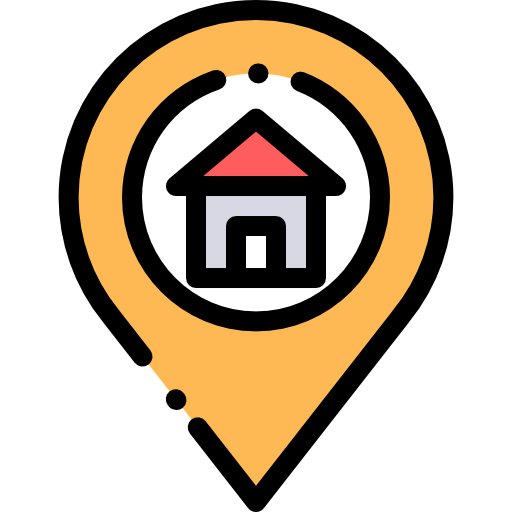
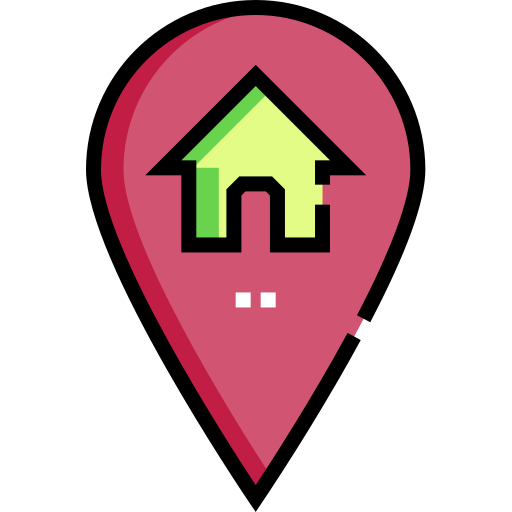
middle commit

diff --git a/src/boxes/common/board/map/FindByMap.js b/src/boxes/common/board/map/FindByMap.js
@@ -1,4 +1,4 @@
-import React, { useEffect, useState, useCallback} from 'react';
+import React, {useEffect, useState, useCallback, useRef} from 'react';
 import ReviewModal from '../../../../items/ReviewModal'
 import 'react-google-maps'
 import {
@@ -10,12 +10,23 @@ import side from './side.jpg'
 import Geocode from 'react-geocode'
 
 import './map.css'
-import {  Star, StoreReport} from "./Modals";
-import {useDispatch} from "react-redux";
-import {normal,cafe, home, red, review, addr, phoneB, storeIcon, favStar, hotelIcon, hospIcon} from './mapIcons/imgIndex'
+import {  Star} from "./Modals";
+import {
+    homeIcon,
+    red,
+    review,
+    addr,
+    phoneB,
+    favStar,
+    hospIcon,
+    chinaIcon,
+    conviStore,
+    drug,
+    cafe, hotelIcon, soju, bab, normal
+} from './mapIcons/imgIndex'
 import {Button, Col, Container, Modal, Row} from "react-bootstrap";
 import {Link} from "react-router-dom";
-import {storeList,storeThunk} from "./mapThunks";
+import axios from "axios";
 
 Geocode.setApiKey("AIzaSyBCjj2hELnBZqNrfMSwlka2ezNRrysnlNY");
 
@@ -29,46 +40,115 @@ const FindByMap=()=> {
             height: '600px'
         };
 
-        const [map, setMap] = useState(null)
+        const [map, setMap] = useState(null);
+        const [userAddr, setUserAddr] = useState("");
         const onUnmount = useCallback(function callback(map) {
         setMap(null)
-    }, [])
-    const [center,setCenter]=useState({lat: 37.746897, lng: 127.040861})
-    const onLoad = React.useCallback(function callback(map) {
-        setMap(map)
-    }, [])
+        }, [])
+        const [center,setCenter]=useState({lat: 37.746897, lng: 127.040861});
         const [modalShow, setModalShow] = useState(false);
-        const [loca, setLoca]=useState(false);
-        let [homePosit,setHomePosit]=useState({})
-        const [storeInfo,setStoreInfo]=useState({})
-        const myLoca='서울시 중랑구 ㅇㅇㅇ 거구장';
-        const [selectedAddr, setSelectedAddr] = useState('')
-        const [infoShow, setInfoShow] =useState(false)
-        const dispatch=useDispatch()
+        let [homePosit,setHomePosit]=useState({});
+        const [storeInfo,setStoreInfo]=useState({});
+        const myLoca = JSON.parse(sessionStorage.getItem("accountDetail")).defaultAddr;
+        const [userLatLng,setUserLatLng]=useState({lat:0, lng:0});
+        const [infoShow, setInfoShow] =useState(false);
+        const [storeList, setStoreList] =useState([]);
+
         const showHome=e=>{
             e.preventDefault()
-            setLoca(true);}
-        const [selected, setSelected] = useState({lat: 0, lng: 0});
-        Geocode.fromLatLng(selected.lat, selected.lng).then(
-            response => {
-                const address = response.results[0].formatted_address;
-                setSelectedAddr(address);
-                console.log(address);
-            },
-            error => {
-                console.error(error);
-            },
-        );
+            setCenter(homePosit);}
+        const mapRef = useRef();
+        const panTo = useCallback(({lat, lng}) => {
+            //<Search panTo <- 여기로
+            mapRef.current.panTo({lat, lng});
+            mapRef.current.setZoom(16);
+        }, []);
+        const onMapLoad = React.useCallback(map => {
+            mapRef.current = map;
+        }, []);
+        const getLatLng = () =>{
+            Geocode.fromAddress(myLoca).then(
+                response => {
+                    const resLatLng = response.results[0].geometry.location;
+                    setUserLatLng({lat:resLatLng.lat, lng:resLatLng.lng})
+                    console.log(resLatLng);
+                },
+                error => {
+                    console.error(error);
+                }
+            );
+        }
+
+
         useEffect(()=>{
             console.log("in useEffect")
             if(!storeList[0]) {
-                dispatch(storeThunk(sessionStorage.getItem("location")));
-            console.log("useEffect")}
-            if(sessionStorage.getItem("location").defaultAddr ==="경기도 파주시"){
-                setHomePosit({lat: 37.746897, lng: 127.040861});
-            }
+                axios.get(`http://localhost:8080/stores/mapClick/의정부`)
+                    .then(({data})=>{
+                        let temList =[]
+                        data.list.forEach(elem=>{
+                            switch (elem.storeType) {
+                                case "의원": elem.icon = hospIcon; temList.push(elem); return;
+                                case "중국식": elem.icon =chinaIcon; temList.push(elem); return;
+                                case "편의점": elem.icon = conviStore; temList.push(elem);return;
+                                case "약국": elem.icon = drug; temList.push(elem); return;
+                                case "기타음료식품": elem.icon=cafe; temList.push(elem); return;
+                                case "숙박업": elem.icon = hotelIcon; temList.push(elem); return;
+                                case "주점": elem.icon = soju; temList.push(elem); return;
+                                case "일반한식": elem.icon = bab; temList.push(elem); return;
+                                default:elem.icon = normal; temList.push(elem); return;
+                            }
+                        });
+                        setStoreList(temList);
+                    })
+                    .catch(err=>{throw(err)});
+           }
+
 
         },[storeList],);
+        useEffect(()=>{
+                setHomePosit({lat: 37.746897, lng: 127.040861});
+
+        },[setHomePosit])
+        useEffect(()=>{
+            setUserAddr(JSON.parse(sessionStorage.getItem("accountDetail")).defaultAddr);
+        },[userAddr])
+        useEffect(()=>{
+            getLatLng()
+        },[])
+    const StoreReport=(props)=> {
+        const [checkShow,setCheckShow]=useState(false);
+        useEffect(()=>{
+            console.log(props.storeInfo.storeName)
+        },[props])
+        const Check =(props)=>{
+            return<>
+                <Modal
+                    scaleSize={"sm"}/>
+            </>
+        }
+        return (
+            <div>
+
+                <Modal {...props}>
+                    <Modal.Header closeButton>
+                        <Modal.Title>가맹점 신고하기</Modal.Title>
+                    </Modal.Header>
+                    <Modal.Body style={{"text-align":"center"}}>
+                        <img src={"https://i.pinimg.com/474x/57/62/24/5762245c37514d61a333d1d5d1434670.jpg"} width={40} height={40}
+                        /><br/>
+                        &nbsp; <h4>{storeInfo.storeName}</h4>&nbsp;에서 지역화폐를 받지 않습니까?
+                    </Modal.Body>
+                    <Modal.Footer>
+                        <Button variant="secondary" onClick={props.onHide}>취소</Button>
+                        <Button variant="danger" onClick={props.onHide} >신고하기</Button>
+                    </Modal.Footer>
+                </Modal>
+                <Check show={checkShow}/>
+            </div>
+
+        );
+    };
 
     const MapModal=(props)=> {
         const [reportShow, setReportShow]=useState(false);
@@ -146,7 +226,7 @@ const FindByMap=()=> {
                         <Button onClick={props.onHide}>Close</Button>
                     </Modal.Footer>
                 </Modal>
-                <StoreReport storeInfo show={reportShow} onHide={()=>setReportShow(false)}/>
+                <StoreReport setReportShow storeInfo show={reportShow} onHide={()=>setReportShow(false)}/>
                 <ReviewModal show={reviewShow} handleClose={()=>setReviewShow(false)}
                 storeName={storeInfo.storeName}
                 accountDetail={JSON.stringify(sessionStorage.getItem("accountDetail"))}
@@ -170,11 +250,21 @@ const FindByMap=()=> {
                 <table className="findmap">
                     <tr><td>
                         {sessionStorage.getItem("accountDetail")&&<>
-                            <img src={home} alt={"집"} onClick={(e)=>showHome(e)}
-                                 style={{width:50, height:50, cursor:'pointer'}}/>
+                            <img src={homeIcon} alt={"집"} onClick={e => {
+                                e.preventDefault();
+                                navigator.geolocation.getCurrentPosition(
+                                    position => {
+                                        panTo({
+                                            lat: position.coords.latitude,
+                                            lng: position.coords.longitude,
+                                        });
+                                    },
+                                    () => null,
+                                );
+                            }} style={{width:50, height:50, cursor:'pointer'}}/>
                             <h6>내 위치</h6></>}
                     </td>
-                        <td>{loca&&<h6>{myLoca}</h6>}</td>
+                        <td><h6>{myLoca}</h6></td>
                         <td></td>
                     </tr>
                     <tr><td colSpan={2} className="td-left">
@@ -186,7 +276,7 @@ const FindByMap=()=> {
                             center={center}
                             onUnmount={onUnmount}
                             zoom={16}
-                            onLoad={onLoad}
+                            onLoad={onMapLoad}
 
                         >
 
@@ -212,18 +302,19 @@ const FindByMap=()=> {
                                 clickable={true}
                                 onCloseClick={() => setInfoShow(false)}
                             ><h2>인포창</h2></InfoWindow>}
+                            {sessionStorage.getItem("accountDetail")&&
                             <Marker
-                                position={{lat: 37.746897, lng: 127.040861}}
-                                icon={{url: home,
+                                position={homePosit}
+                                icon={{url: homeIcon,
                                     scaledSize: {width:40, height:40},
                                 }}
                                 title={'집'}
                                 animation={2}
                             >
                                 <InfoWindow>
-                                    <h1>일단인포</h1>
+                                    <h6>우리집</h6>
                                 </InfoWindow>
-                            </Marker>
+                            </Marker>}
                         </GoogleMap>
                         </LoadScript>
 

diff --git a/src/boxes/common/board/map/MerchantList.js b/src/boxes/common/board/map/MerchantList.js
@@ -3,28 +3,7 @@ import {Table, Pagination} from 'react-bootstrap';
 import {Link} from "react-router-dom"
 import axios from 'axios'
 import { useDispatch} from "react-redux";
-import {StoreReport} from "./Modals";
 import './search.jpg'
-import {storeThunk,storeList} from "./mapThunks";
-
-
-const GET_STORE_REQUEST = 'GET_STORE_REQUEST';
-
-
-export const storeListAction=data=>({type: GET_STORE_REQUEST, payload:data});
-export const storeListReducer = (state=[], action)=>{
-    switch (action.type) {
-        case GET_STORE_REQUEST :return action.payload;
-        default: return state;
-
-    }
-}
-export const storeListThunk = searchWord => dispatch => {
-    console.log("storeListThunk")
-    axios.get(`http://localhost:8080/stores/${searchWord}`)
-        .then(res=>{dispatch(storeListAction(res.data))})
-        .catch(err=>{throw(err)})
-}
 
 
 const MerchantList=()=> {
@@ -33,6 +12,7 @@ const MerchantList=()=> {
     const [state,setState]=useState('');
     const [dong,setDong]=useState('');
     const [cate,setCate]=useState('');
+    const [storeList, setStoreList]=useState([])
     const stateCheck=e=>{setState(e.target.value);};
     const dongCheck=e=>{setDong(e.target.value); };
     const cateCheck=e=>{setCate(e.target.value); };
@@ -40,8 +20,15 @@ const MerchantList=()=> {
 
 
     useEffect(()=>{
-        dispatch(storeThunk(""))
-    },[storeList])
+        console.log("in useEffect")
+        if(!storeList[0]) {
+            axios.get(`http://localhost:8080/stores/mapClick/의정부`)
+                .then(({data})=>{
+                    setStoreList(data.list);
+                })
+                .catch(err=>{throw(err)});
+        }})
+
 
 
     const Img = ()=>{
@@ -51,7 +38,6 @@ const MerchantList=()=> {
         </Link>)}
   return (
     <div className="container">
-        <StoreReport show={modalShow} onHide={() => setModalShow(false)}/>
         <Table striped bordered hover className="list_table">
             <thead>
             <tr>

diff --git a/src/boxes/common/board/map/Modals.tsx b/src/boxes/common/board/map/Modals.tsx
@@ -1,32 +1,9 @@
-import React, {useState} from "react";
-import {Button, Col, Container, Modal, Row} from "react-bootstrap";
-import {Link} from "react-router-dom";
+import React, { useState} from "react";
+import {Button, Modal} from "react-bootstrap";
 
 
 
-export const StoreReport=(props)=> {
-    return (
-        <div>
 
-            <Modal {...props}>
-                <Modal.Header closeButton>
-                    <Modal.Title>가맹점 신고하기</Modal.Title>
-                </Modal.Header>
-                <Modal.Body>
-                    <img src={"https://i.pinimg.com/474x/57/62/24/5762245c37514d61a333d1d5d1434670.jpg"} width={40} height={40}
-                    />
-                    &nbsp; 해당 가맹점에서 지역화폐를 받지 않습니까?
-                </Modal.Body>
-                <Modal.Footer>
-                    <Button variant="secondary" onClick={props.onHide}>취소</Button>
-                    <Button variant="danger" onClick={props.onHide}>신고하기</Button>
-                </Modal.Footer>
-            </Modal>
-
-        </div>
-
-    );
-};
 
 
 

diff --git a/src/App.tsx b/src/App.tsx
@@ -8,13 +8,11 @@ import { Provider } from 'react-redux';
 import thunk from 'redux-thunk';
 import { combineReducers, createStore, applyMiddleware } from 'redux';
 import * as serviceWorker from './serviceWorker';
-import { storeListReducer } from "./boxes/common/board/map";
 import { userListReducer } from './boxes/admin/admin_board/UsersList';
 import { recommendListReducer} from "./boxes/common/board/recommandation/Recommendation";
 
 const rootReducer = combineReducers({
   userListReducer,
-  storeListReducer,
   recommendListReducer,
 });
 

diff --git a/src/boxes/common/board/map/mapIcons/imgIndex.tsx b/src/boxes/common/board/map/mapIcons/imgIndex.tsx
@@ -16,6 +16,7 @@ import storeIcon from './store.png'
 import hotelIcon from './hotelIcon.png'
 import chinaIcon from './chinaFoodIcon.png'
 import conviStore from './conviStore.png'
+import bab from './babIcon.png'
 import soju from './sojuIcon.png'
-export {soju, conviStore,chinaIcon,hotelIcon,addr,bookStore,favStar,red,cafe,drug,home,homeIcon,
+export {bab,soju, conviStore,chinaIcon,hotelIcon,addr,bookStore,favStar,red,cafe,drug,home,homeIcon,
     hospIcon,normal,phoneB,recom,review,selected,storeIcon}

diff --git a/src/boxes/common/board/map/index.ts b/src/boxes/common/board/map/index.ts
@@ -1,10 +1,9 @@
 import FindBestRoute from './FindBestRoute';
 import FindByMap from './FindByMap';
-import MerchantList, { storeListReducer } from './MerchantList';
+import MerchantList from './MerchantList';
 
 export {
   FindBestRoute,
   FindByMap,
   MerchantList,
-  storeListReducer,
 }
